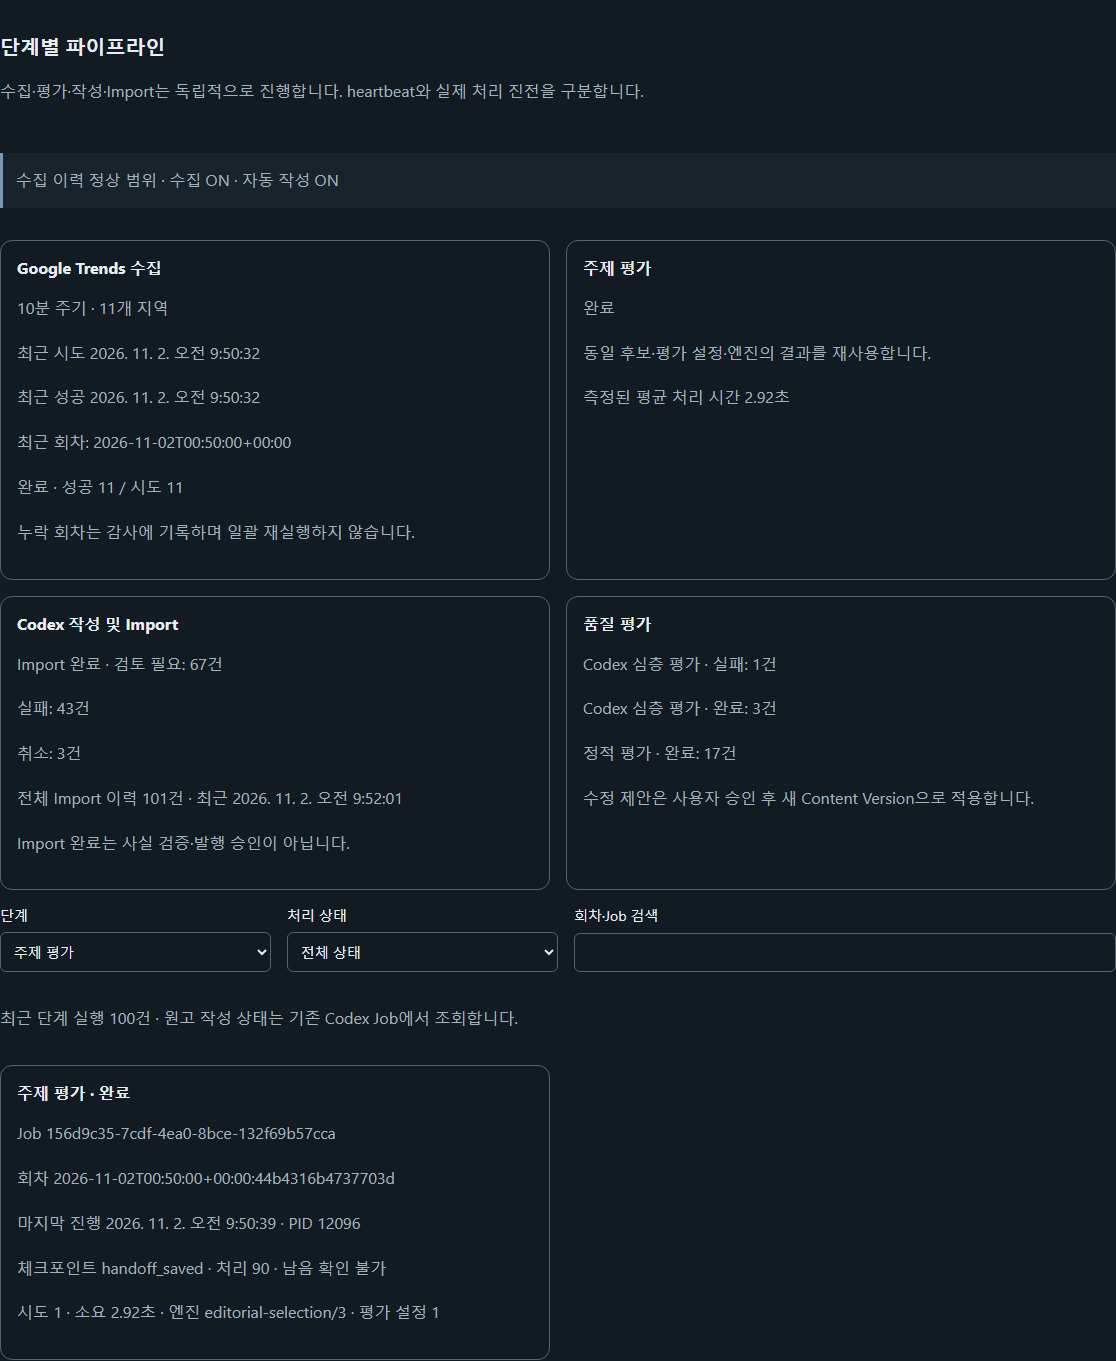
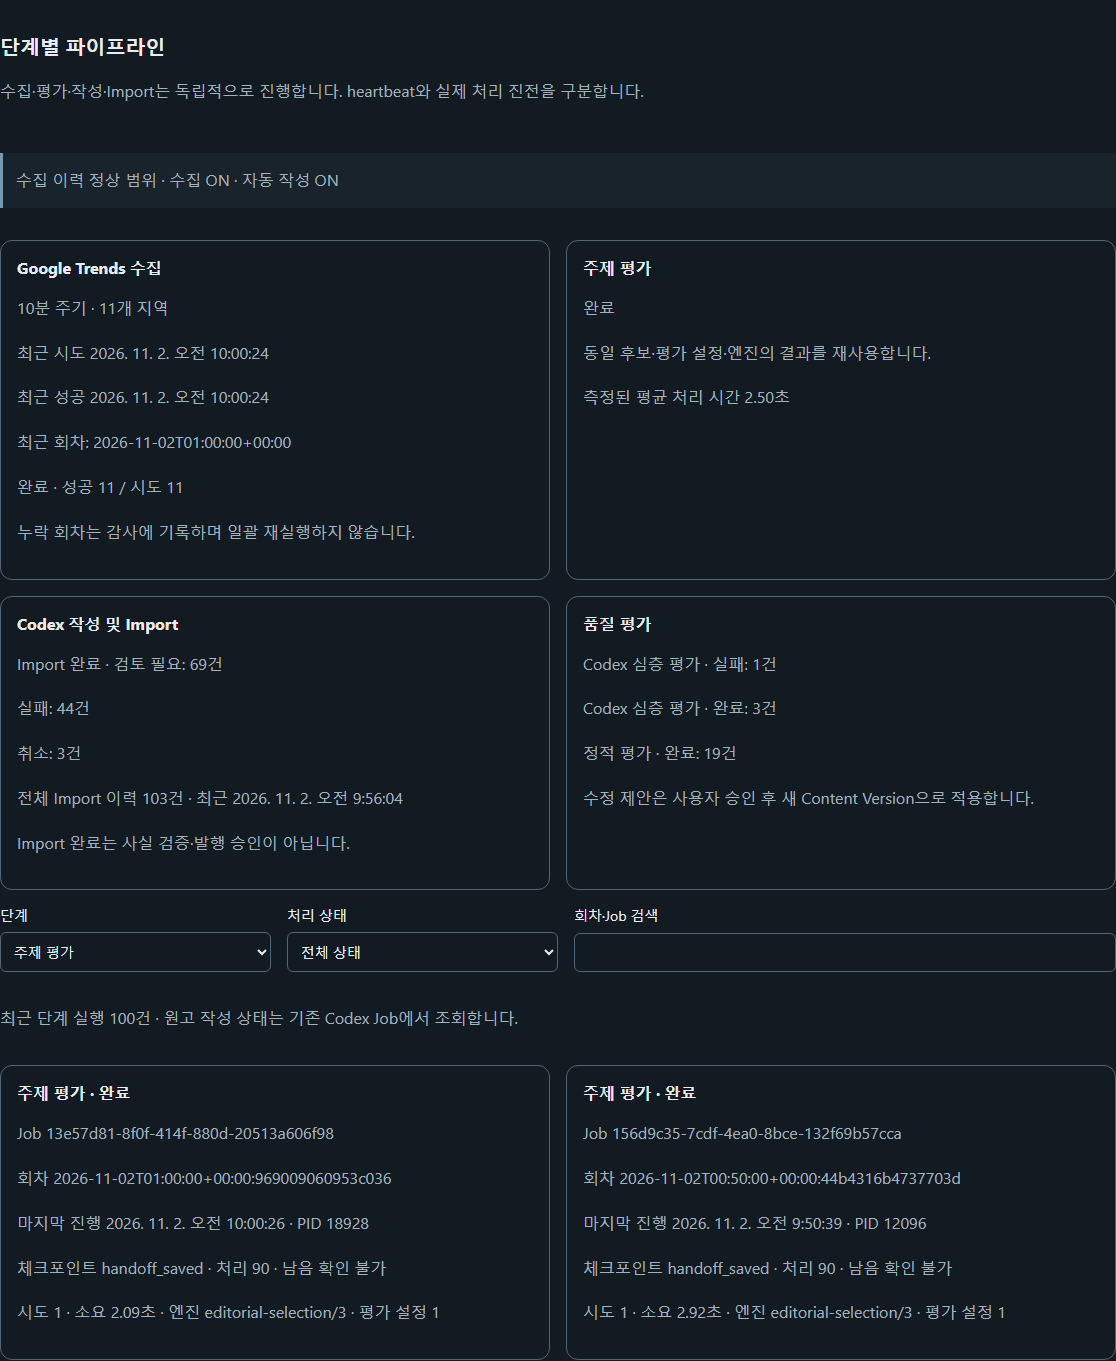
Test : [P5-CODEX-105] Record recovered collection cadence and real Codex import evidence

diff --git a/services/api/tests/test_trend_topics.py b/services/api/tests/test_trend_topics.py
@@ -197,7 +197,7 @@ def test_broad_candidate_is_held_and_never_auto_selected(
         (observation_id,),
     ).fetchone()["topic_id"]
     assessment = conn.execute(
-        "SELECT decision,reasons,score FROM trend_topic_assessments WHERE topic_id=%s",
+        "SELECT decision,reasons,score FROM trend_topic_assessments WHERE topic_id=%s ORDER BY created_at DESC,id DESC LIMIT 1",
         (topic_id,),
     ).fetchone()
     assert assessment["decision"] == "held"

diff --git a/docs/development/P5-CODEX-105.md b/docs/development/P5-CODEX-105.md
@@ -53,7 +53,7 @@
 
 - 구현 `3afdbe0`, 운영 schema79. 종료 전 실제 active Codex0/실제 running publication0/pending write0 확인. Research10232는 기존 stop-file로 파생 비교 체크포인트에서 정상 종료했다. 새 Research12096은 heartbeat 정상. 원본 수집/기존 커밋 자료는 보존됐으며 DB backend cancel/termination, OS force kill, Task Scheduler stop은0건이다.
 - 변경 서비스만 정상 교체: API21936(launcher15628), Dashboard31448(launcher20648), Research12096. Publication32104와 PG16 PID6880/Crypto는 유지. HTTP200, P1047설정/revision9/기존37 Jobs/15 TOML/쓰기 원장 동일.
-- 실제 회차 `09:40`: 새 Worker 시작 시 현재 회차,11/11 성공,09:49:59 완료/16.579초. `09:50`:11/11 성공,09:50:31 완료/17.115초. 과거07:20 이후 누락 회차는 재수집하지 않았고 `research.stage.missed_slots` 감사1개로 남겼다.
+- 실제 회차 `09:40`: 새 Worker 시작 시 현재 회차,11/11 성공,09:50:00.812 완료/16.579초. `09:50`:11/11 성공,09:50:33.249 완료/17.115초. 완료 시각은 새 stage의 `clock_timestamp()`를 사용한다(기존 slot.updated_at은 트랜잭션 시작 시각이므로 완료 시각으로 사용하지 않는다). 과거07:20 이후 누락 회차는 재수집하지 않았고 `research.stage.missed_slots` 감사1개로 남겼다.
 - 실제 평가 UUID `156d9c35-7cdf-4ea0-8bce-132f69b57cca`,09:50 회차,90개 Blogger·국가 후보,**2.920초**. selected15/high_risk2/review_candidate37/insufficient_context36. 실제 scores·원본 쿼리·설정 ID 보존. 레거시 168시간 전체 비교는 실행하지 않았다. 완료 직후 같은 평가를 반복하지 않음을 확인했다.
 - 실제 Codex Job `eab9f9e4-bc08-48c2-a010-4d506a157a42`:09:50:44 시작 →09:52:01 imported_review, error 없음. Import **`84bce453-6778-4112-b5d1-a28ba5085dd6`**, native Content Version **`b73911d6-77b8-4427-a27c-e5dfc85f0616`**. 정적 품질 `trendjournal-quality/3.1` completed. 심층 평가를 추가 호출하지 않았다. Import/정적 완료를 사실 검증·공개 승인으로 승격하지 않았다. 게시 Job을 만들지 않았다.
 - 실제3100 브라우저4 passed: P105 monitor1440/390 + P1047설정 회귀1440/390. 비GET 차단, pageerror/가로 넘침0, 실제 평가·Import poll 진행 표시. P105 live screenshot 보존. P104의 기존 역사 screenshot은 회귀 실행이 생성한 덮어쓰기본을 원래 커밋 bytes로 복원한다.
@@ -61,3 +61,47 @@
 - 관찰 중 cached evaluation 완료 뒤 남은 현재 회차 handoff를 계속 admission해야 함을 확인해 admission lane에 기존 expire/dispatch를 연결했다. 점수는 재계산하지 않고, 기존 current-slot·한도·single CLI 잠금을 그대로 사용한다. 첫 실제 Codex가 정상 Import까지 완료됐고 active Codex0임을 확인한 뒤 이 작은 보강만 Research에 정상 반영한다. API/Dashboard/Publication을 다시 재시작할 필요가 없다.
 
 10:00 정상 회차와 이후 실제 결과는 후속 최종 체크포인트에 기록한다.
+
+## 최종 운영 검증 — 10:02 KST
+
+### 회차 및 평가
+
+| 실제 회차 KST | stage 시작 | stage 완료 | 성공 지역 | 실측 처리 시간 |
+|---|---|---|---|---|
+|09:40(복구 시 현재 회차)|09:49:44.169|09:50:00.812|11/11|16.579초|
+|09:50|09:50:16.066|09:50:33.249|11/11|17.115초|
+|10:00|10:00:08.175|10:00:24.475|11/11|16.228초|
+
+- 실제 slot ID가10분 간격으로 증가했다.09:50/10:00의 정상 주기를 관찰했고, collector가 이전 평가·작성·Import 완료를 선행 조건으로 기다리지 않음을 격리 slow-stage 테스트와 실제 단계 이력으로 검증했다.09:40 회차는 정상 재시작 시점의 현재 회차만 처리했으며 지난 모든 누락 회차를 재생한 것이 아니다.
+-10:00 평가 UUID `13e57d81-8f0f-414f-880d-20513a606f98`:90개 후보,**2.090초**, selected10/duplicate3/review_candidate37/insufficient_context40. 실제 두 평가 평균2.505초. 같은 원고 이력을 다시 발견한 후보3개가 중복으로 분류됐고, 처리 결과를 덮어쓰지 않았다.10:00의 신규 작성 요청0건은 기존 시간당4개 한도에 따른 정상 결과다. 실패한 작성도 소모 한도를 되돌리지 않았다.
+- 수집 UUID:09:40 `d946cd65-33c6-4ead-9345-acc98d3c0519`,09:50 `be50a85a-55ea-46a6-9688-9abfa89e4607`,10:00 `c1015245-be6f-41e6-a537-22771c6748ed`. 복구 전 수시간 트랜잭션과 달리 최종 운영 조회에서5분 초과 트랜잭션0건이었다.
+
+### 실제 Codex·Import·품질 결과
+
+운영의 정상 P101 선정·시간당4개 범위에서 실제 official Codex 실행4건, **Import/새 native Version/정적 평가 완료3건**, 생성 JSON 검증 실패1건이다. 별도 테스트용 키워드나 가짜 원고는 생성하지 않았다.
+
+|Job|언어|Import|Content Version|결과|
+|---|---|---|---|---|
+|`eab9f9e4-bc08-48c2-a010-4d506a157a42`|ja|`84bce453-6778-4112-b5d1-a28ba5085dd6`|`b73911d6-77b8-4427-a27c-e5dfc85f0616`|imported_review|
+|`607ea7df-1d3e-42f1-8b62-de9fc5496d09`|en|`1cbe16e9-aae4-4d61-8b9d-62a98f1ebd2f`|`ba3e44e6-6fb9-4042-abb0-2a507b0f74e2`|imported_review|
+|`363a5b0f-5e64-41e4-b769-b26adac885d8`|en|`4648465f-2fc9-40ab-889d-35535fea29e8`|`d0aa11a4-7ec9-4794-a2dc-779d38ddfd83`|imported_review|
+|`3d2996a5-1d92-4171-b770-286d7b0672d9`|en|없음|없음|failed / json_schema_invalid|
+
+-3건 모두 `trendjournal-quality/3.1` static completed, fact_verified=false/publish_ready=false를 유지한다.1건에 수정 제안1개가 저장됐고 사용자 확인 없이 적용하지 않았다. 심층 평가 추가 호출0건. 원본/기존 Version 보존. 원고 품질 보조 점수를 검증 완료로 해석하지 않는다.
+- JSON 실패1건은 성공으로 수정하거나 필드를 지어내지 않았다. 이번 작업에서 재시도·재가져오기를 강행하지 않았다.09:56의 실패 후에도10:00 수집·평가·Import poll은 정상 진행했다. 별도 사용량 제한 신호는 관찰되지 않았으며, 제공자 토큰 잔량·reset 시각·절약 토큰량은 추정하지 않았다. 서비스 CLI single-run과 기존4개/시간 설정을 유지했다.
+
+### 예약·안전·UI
+
+- P102는 이미 구현된 상태다. 실제 저장 원고의 정확한 scope로 trusted helper의 Backend 결과와 Backend503를 주입한 repository fallback을 재검증했고 둘 다 local_status=already_imported였다. remote_status=not_checked/blogger_read_complete=false를 그대로 유지하고 새 원고를 중복 Import하지 않았다. 실제 정상 서비스를 중지해 장애를 만들지 않았다.
+- 기존15 automation.toml은 checksum 동일/ACTIVE15, 예약 시간/RRULE/프롬프트 변경0. 기존 automation-5의2026-10-31 12:00 KST 프로젝트 파생 occurrence에 새 Import origin event0, pending manuscript file0. 이번 개발 세션을 그 과거 예약 실행으로 위장하지 않았고 실패 슬롯을 성공으로 덮어쓰거나 재실행하지 않았다. 이번 관찰 구간에서15개 각각의 신규 Desktop 예약 전달 성공은 확인하지 않았으며 다음 실제 예약 실행은 별도 관찰 대상이다.
+- 최종 Research **18928 / db8bcfe**, API21936·Dashboard31448 /3afdbe0. Publication **32104** 기존 프로세스 유지. Research12096의 첫 실제 Codex가 정상 종료·Import 완료된 뒤 active Codex0임을 확인하고, admission만 정상 종료/재시작으로 보강했다. Research/Publication 모두 revision9/automation-controls2/fresh PID heartbeat ACK. API health/research monitor/automation center/sources/manuscripts 모두 HTTP200. 새 Worker의 독립 scheduled intake ACK 지속 갱신.
+- 최종 정책은 원래7개 값 및revision9 그대로다. 운영 감사 **283919**에 실제 회차3·평가2·Codex4·Import3·실패1·품질3·쓰기0·보존 결과 기록. Blogger write operation0/live attempt0/외부 비GET Blogger audit0/publication grant0. 기존37 Publishing Jobs와 쓰기 원장,15개 예약 파일 동일. 수동 게시도 직접 요청하지 않았다. PG16 Running/Auto PID6880, Task Scheduler Ready/LastTaskResult0, Crypto 변경0.
+- 최종 Chromium: Mock8 + 실제 P1052 + P104 회귀2 = **고유12 passed**. 실제 P105를 새 Worker/10:00 회차 이후 다시 확인했다.1440/390 다크 테마, 검색/필터, 빈/장애/정체/사용량 대기, import/품질/실측 평가·단계 분리, pageerror/가로 넘침0. 마지막 실제 화면은 `assets/P5-CODEX-105-live-{desktop,mobile}.png`.
+
+### 최종 테스트 및 남은 항목
+
+- 변경 범위 최종 통합 **224 passed (22.63초)**, 실패0. 앞선 통합에서 과거 assessment를 ORDER 없이 가져오던 테스트가 역사 row의 예전 이유 코드를 선택한 경우가 있었다. immutable 이력을 삭제하지 않고 최신 created_at/id를 명시해 현재 평가를 검사하도록 고친 뒤14개 관련 테스트 및 최종224개가 통과했다. 제품 검증 기준을 낮추지 않았다.
+- Ruff 변경 범위 통과, strict mypy4모듈(research stages/DB/P101 scoring/API) 통과, Dashboard TypeScript/ESLint/독립 production build 통과. Next가 검증 중 바꾼 next-env/tsconfig는 원래 bytes로 복원했다. 전체 저장소 suite green으로 확대 해석하지 않는다.
+- 잔여: 위 실제 생성 실패1건의 모델 출력 형식은 별도 검토 대상이다. 심층 의미/사실/권리/편집 검토와 수동 게시 쓰기 성공은 수행하지 않았다. 다음15개 실제 예약 실행 및 장기간 가동 관찰은 이번 짧은 복구 검증과 구분한다. 파이프라인 정체 해결과 운영 반영은 완료했고, 이 제한을 성공으로 덮지 않는다.
+
+최종 test/docs 커밋·origin/develop SHA는 Git 후속 기록에 연결한다. main 병합 없음, 기존 stash 유지, 기존 두 `.playwright-mcp/` 미추적 디렉터리는 그대로 둔다.
